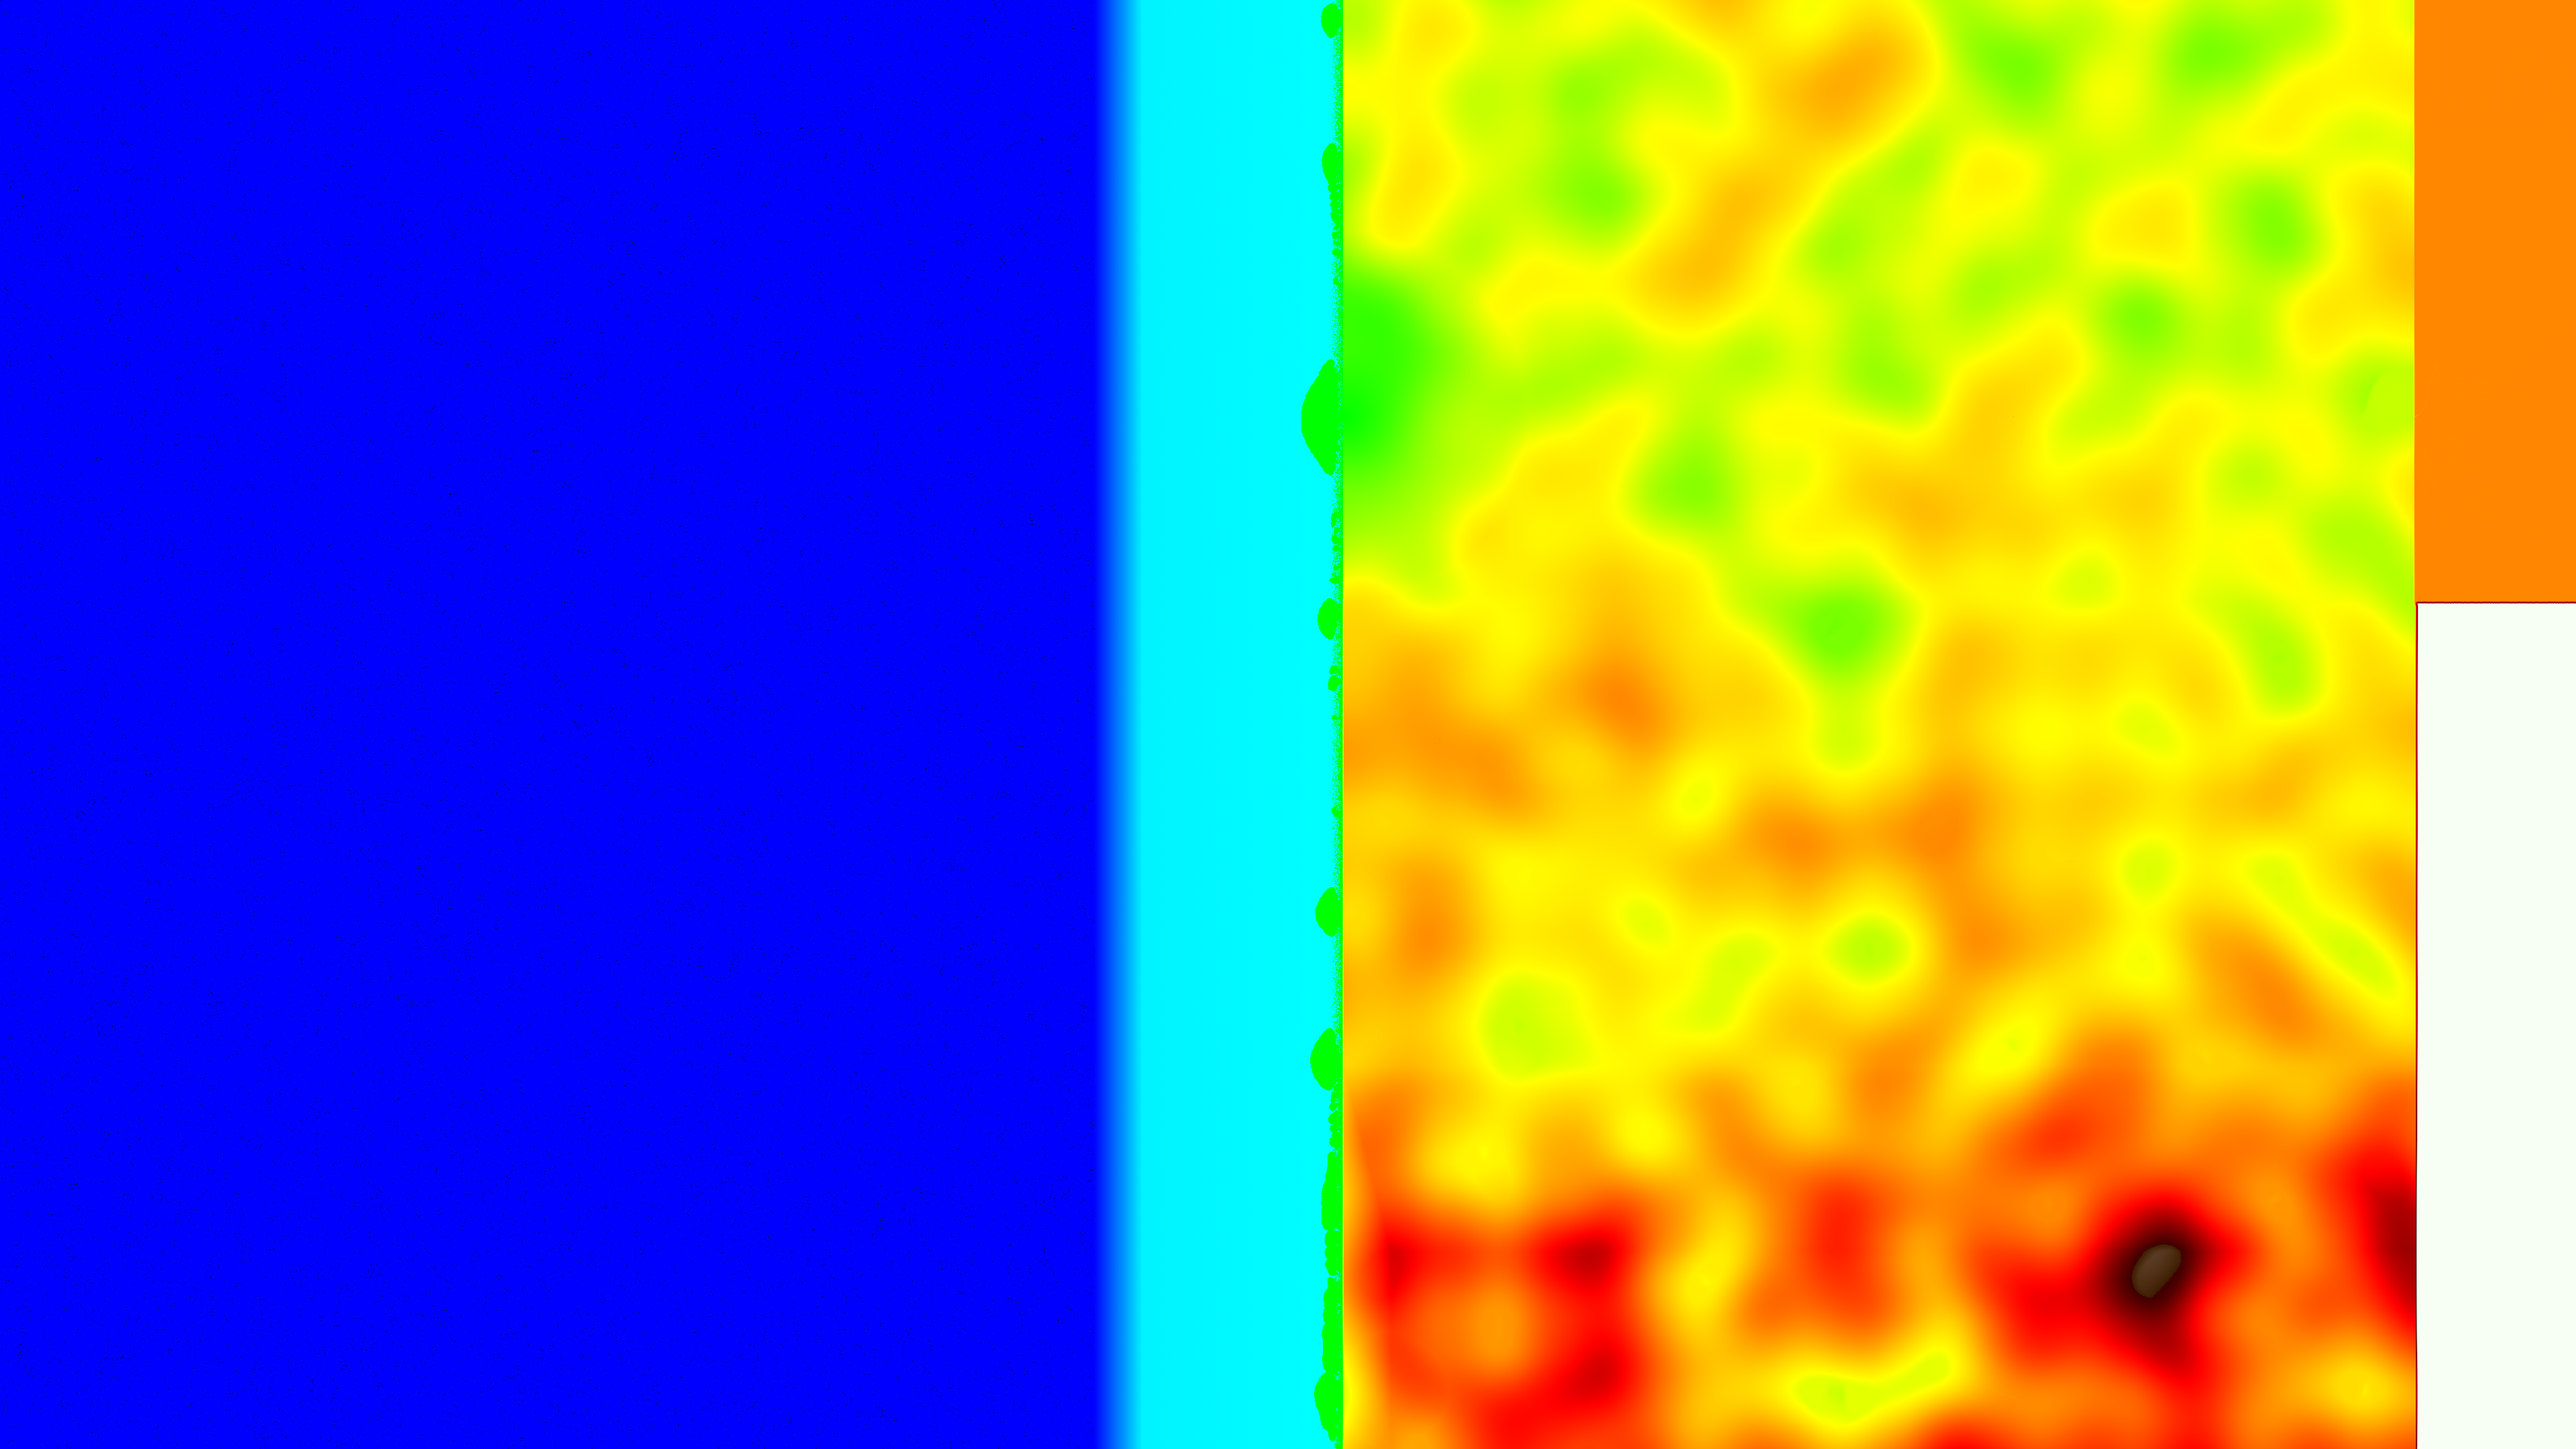
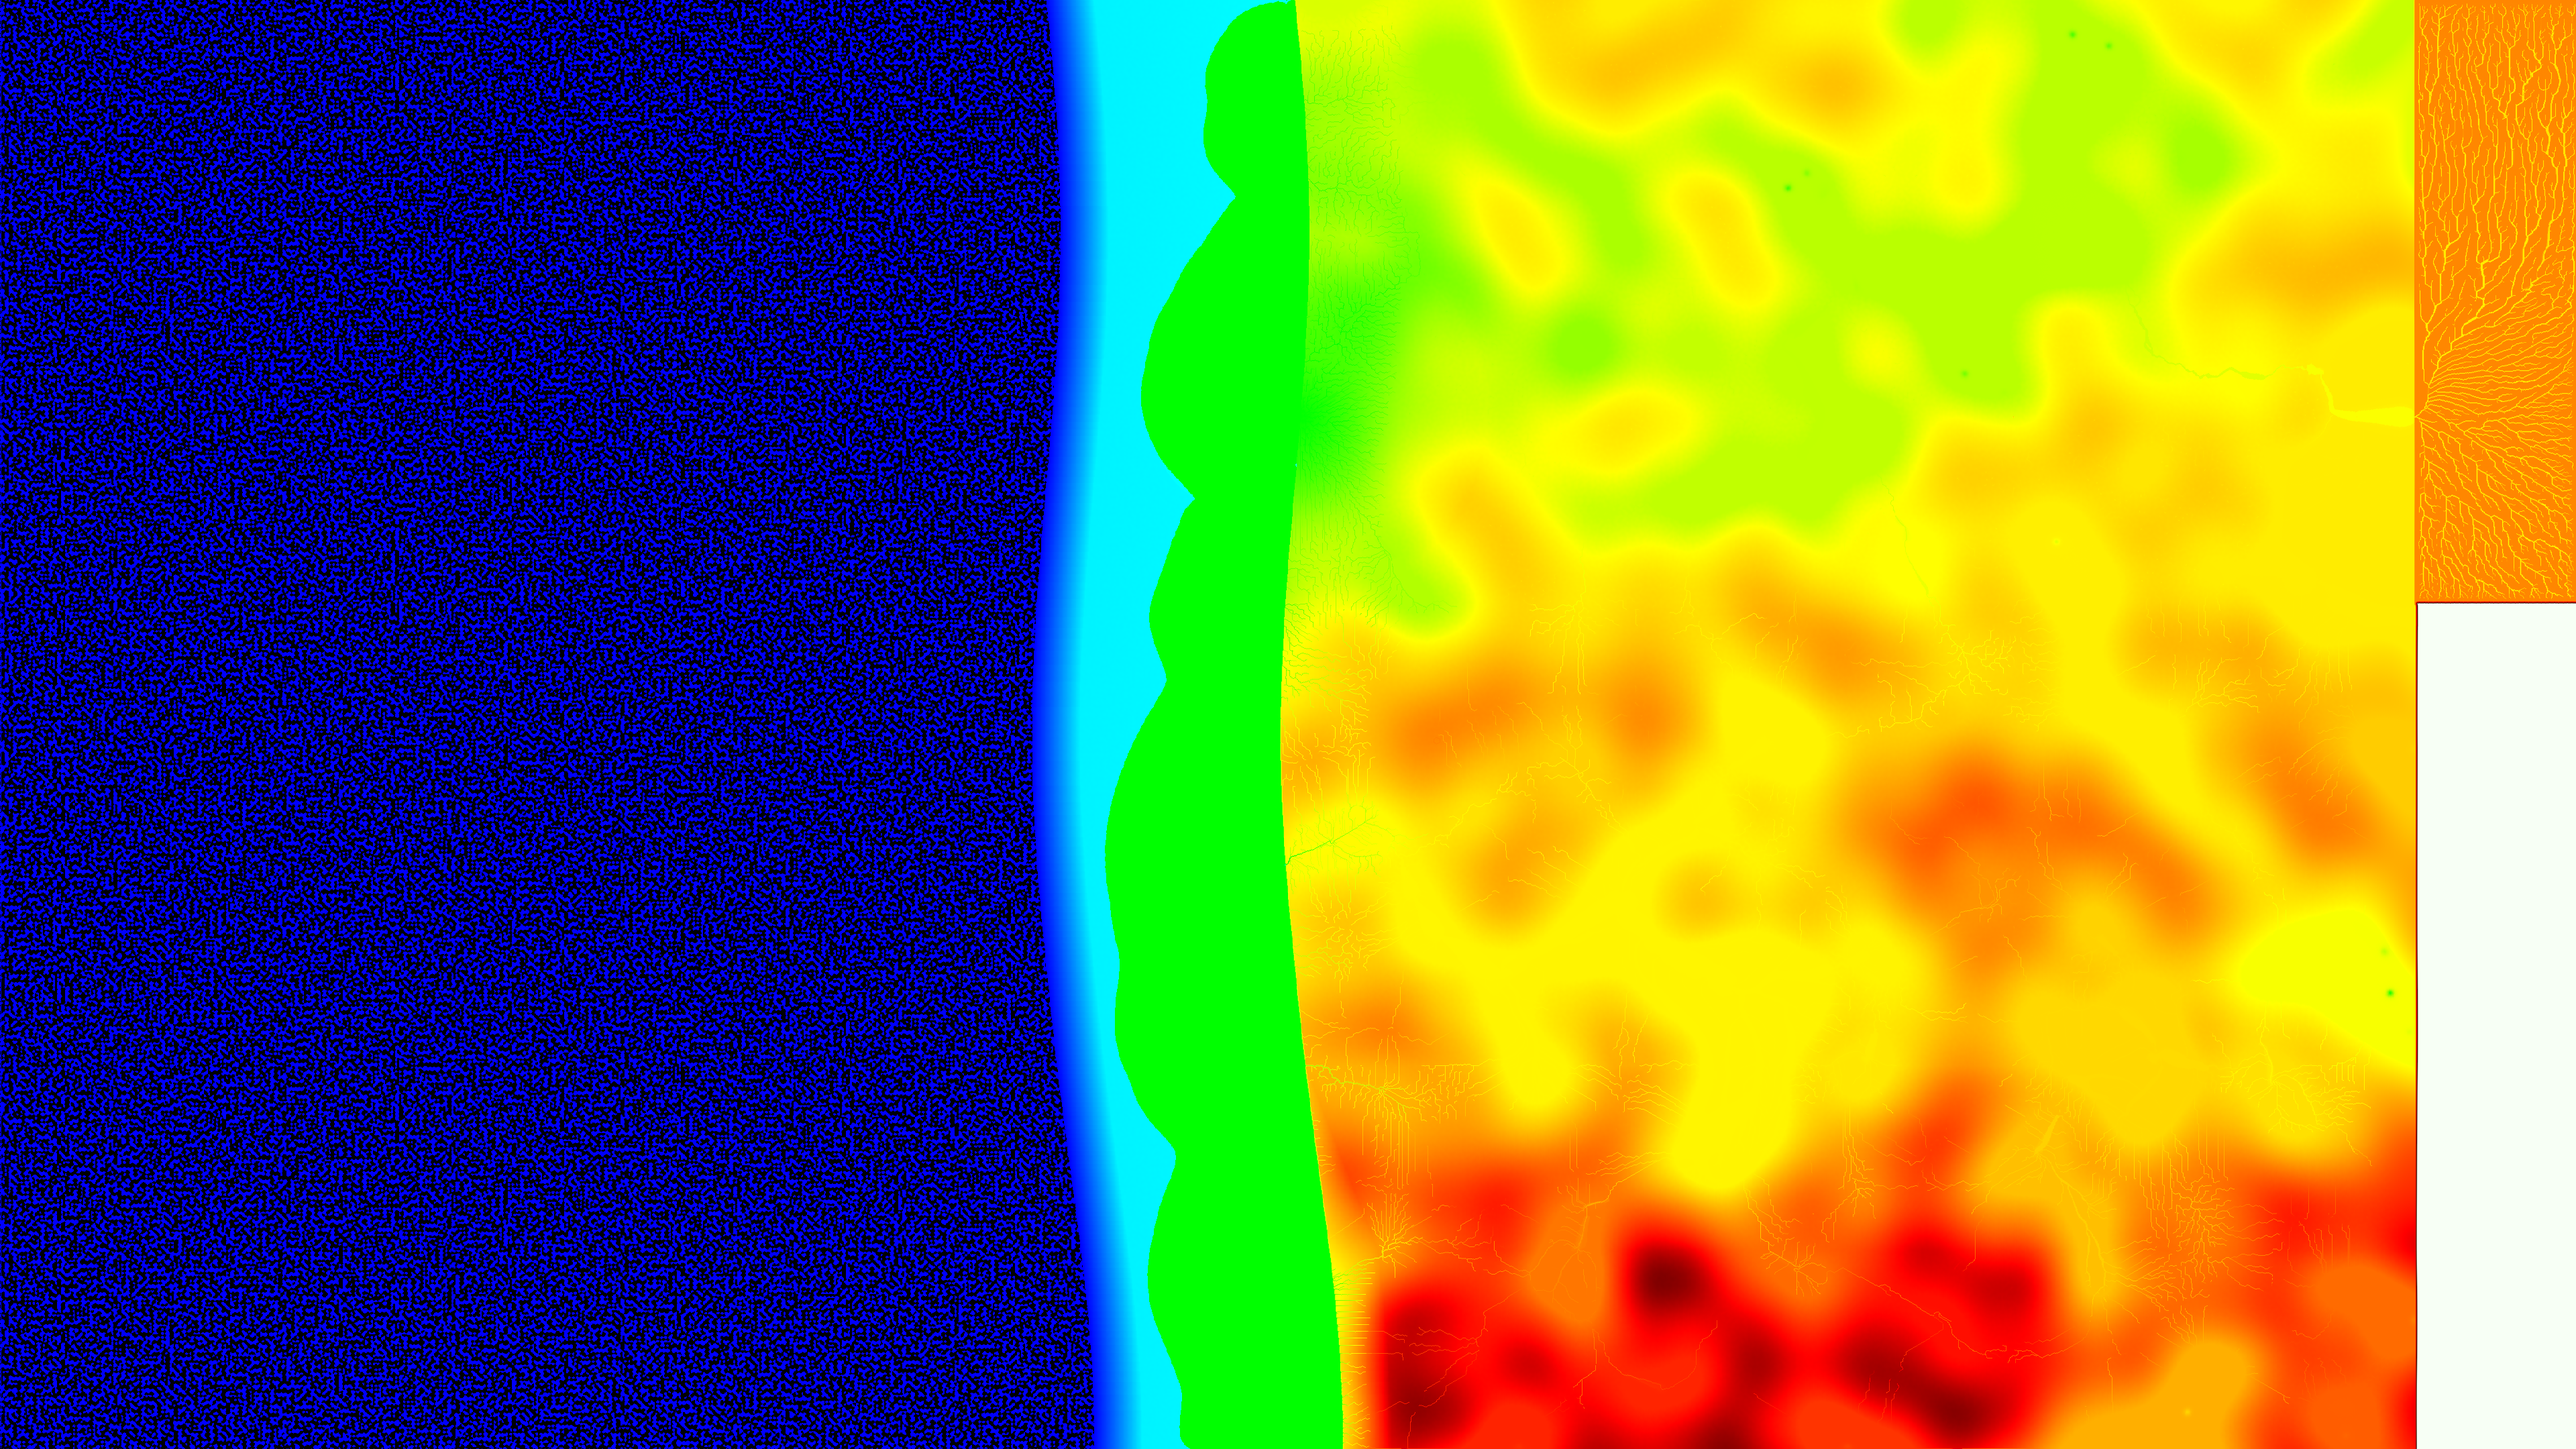
Use Perlin noise to add some wobble to the coastline.

diff --git a/src/main.rs b/src/main.rs
@@ -599,7 +599,11 @@ fn get_erruption_elevation(target_elevation: f32) -> f32 {
     erruption_elevation
 }
 
-fn get_perlin_noise(perlin: &Perlin, x: f64, y: f64, period: f64) -> f32 {
+fn get_perlin_noise(perlin: &Perlin, input: f64, period: f64) -> f32 {
+    (perlin.get([input / period]) as f32 + 1.0) / 2.0
+}
+
+fn get_perlin_noise_for_hex(perlin: &Perlin, x: f64, y: f64, period: f64) -> f32 {
     (perlin.get([x * HEX_FACTOR as f64 / period, y / period]) as f32 + 1.0) / 2.0
 }
 
@@ -614,6 +618,7 @@ fn main() {
     let mut rng = rand::thread_rng();
     let perlin = Perlin::new(rng.gen_range(0..u32::MAX));
     let transition_period = ONE_DEGREE_LATITUDE_MILES as f64 * 4.0;
+    let sea_deviation_for_river_y = (get_perlin_noise(&perlin, RIVER_Y as f64, HEIGHT_PIXELS as f64 / 1.5) * COAST_WIDTH as f32) as usize;
 
     // Time hex map creation
     let hex_start = Instant::now();
@@ -621,26 +626,28 @@ fn main() {
     for y in 0..HEIGHT_PIXELS {
         hex_map.push(Vec::new());
         let distance_from_river_y = (y as i16 - RIVER_Y as i16).abs();
+        let sea_deviation = (get_perlin_noise(&perlin, y as f64, HEIGHT_PIXELS as f64 / 1.5) * COAST_WIDTH as f32) as usize;
 
         for x in 0..WIDTH_HEXAGONS {
             let mut elevation = 0.0;
             let mut distance_from_coast = 0;
+            let adjusted_y = y as f64 + (x % 2) as f64 * 0.5;
 
-            if x < ABYSSAL_PLAINS_WIDTH {
+            if x + sea_deviation < ABYSSAL_PLAINS_WIDTH {
                 elevation = SEA_LEVEL - ABYSSAL_PLAINS_DEPTH;
-            } else if x >= ABYSSAL_PLAINS_WIDTH && x < ABYSSAL_PLAINS_WIDTH + CONTINENTAL_SLOPE_WIDTH {
-                elevation = CONTINENTAL_SLOPE_INCREMENT * (x - ABYSSAL_PLAINS_WIDTH) as f32 - ABYSSAL_PLAINS_DEPTH;
-            } else if x < TOTAL_SEA_WIDTH {
-                elevation = (x - ABYSSAL_PLAINS_WIDTH - CONTINENTAL_SLOPE_WIDTH) as f32 * CONTINENTAL_SHELF_INCREMENT - CONTINENTAL_SHELF_DEPTH;
+            } else if x + sea_deviation >= ABYSSAL_PLAINS_WIDTH && x + sea_deviation < ABYSSAL_PLAINS_WIDTH + CONTINENTAL_SLOPE_WIDTH {
+                elevation = CONTINENTAL_SLOPE_INCREMENT * (x + sea_deviation - ABYSSAL_PLAINS_WIDTH) as f32 - ABYSSAL_PLAINS_DEPTH;
+            } else if x + sea_deviation < TOTAL_SEA_WIDTH {
+                elevation = (x + sea_deviation - ABYSSAL_PLAINS_WIDTH - CONTINENTAL_SLOPE_WIDTH) as f32 * CONTINENTAL_SHELF_INCREMENT - CONTINENTAL_SHELF_DEPTH;
             } else {
-                distance_from_coast = x - TOTAL_SEA_WIDTH;
-                let map_third_noise = get_perlin_noise(&perlin, x as f64, y as f64, HEIGHT_PIXELS as f64 / 3.0);
-                let transition_period_noise = get_perlin_noise(&perlin, x as f64, y as f64, transition_period);
-                let coastal_noise = get_perlin_noise(&perlin, x as f64, y as f64, COAST_WIDTH as f64);
+                distance_from_coast = x + sea_deviation - TOTAL_SEA_WIDTH;
+                let map_third_noise = get_perlin_noise_for_hex(&perlin, x as f64, adjusted_y, HEIGHT_PIXELS as f64 / 3.0);
+                let transition_period_noise = get_perlin_noise_for_hex(&perlin, x as f64, adjusted_y, transition_period);
+                let coastal_noise = get_perlin_noise_for_hex(&perlin, x as f64, adjusted_y, COAST_WIDTH as f64);
                 let perlin_noise = (transition_period_noise + coastal_noise + map_third_noise) / 3.0;
 
                 if y < NORTH_DESERT_HEIGHT {
-                    let factor = (hex_distance_pythagorean(x as i32, y as i32, TOTAL_SEA_WIDTH as i32, RIVER_Y as i32) as f32 / (transition_period as f32)).min(1.0);
+                    let factor = (hex_distance_pythagorean(x as i32 + sea_deviation_for_river_y as i32, y as i32, TOTAL_SEA_WIDTH as i32, RIVER_Y as i32) as f32 / (transition_period as f32)).min(1.0);
                     elevation = perlin_noise * NORTH_DESERT_MAX_ELEVATION * factor;
                 } else if y < NORTH_DESERT_HEIGHT + CENTRAL_HIGHLAND_HEIGHT {
                     let coast_y = COAST_WIDTH as f32 * HEX_SIZE;
@@ -690,12 +697,12 @@ fn main() {
                 elevation += RING_VALLEY_ELEVATION_BONUS;
             }
             // TODO: seaside cliff just north of 34 degrees latitude. Make it 512 feet at the highest point, like the Athenian acropolis.
-            if x <= TOTAL_SEA_WIDTH + NORTH_DESERT_WIDTH - NE_BASIN_FRINGE as usize {
-                elevation += rng.gen_range(0.0..RANDOM_ELEVATION_FACTOR);
+            if x + sea_deviation <= TOTAL_SEA_WIDTH + NORTH_DESERT_WIDTH - NE_BASIN_FRINGE as usize {
+                elevation += (get_perlin_noise_for_hex(&perlin, x as f64, adjusted_y, 6.0) - 0.5) * RANDOM_ELEVATION_FACTOR * 3.0;
             }
 
             let mut rain_class = 0;
-            if x > TOTAL_SEA_WIDTH && distance_from_coast < COAST_WIDTH {
+            if x + sea_deviation > TOTAL_SEA_WIDTH && distance_from_coast < COAST_WIDTH {
                 rain_class += 1;
             }
             if y > NORTH_DESERT_HEIGHT {

diff --git a/src/constants.rs b/src/constants.rs
@@ -77,7 +77,6 @@ pub const NE_BASIN_ELEVATION: f32 = 636.0;
 pub const CENTRAL_HIGHLAND_MAX_ELEVATION: f32 = 10_131.0;
 pub const CENTRAL_HIGHLAND_INCREMENT: f32 = (CENTRAL_HIGHLAND_MAX_ELEVATION - RANDOM_ELEVATION_FACTOR) / MAIN_RIVER_WIDTH as f32;
 // With Perlin noise, actual elevation will likely be lower than this.
-// E.g. 16522.40, 15535.90
 pub const SE_MOUNTAINS_MAX_ELEVATION: f32 = 18_510.0;
 pub const SE_MOUNTAINS_INCREMENT: f32 = (SE_MOUNTAINS_MAX_ELEVATION - RANDOM_ELEVATION_FACTOR) / MAIN_RIVER_WIDTH as f32;
 pub const SW_RANGE_MAX_ELEVATION: f32 = 16_854.0;
@@ -104,7 +103,7 @@ pub const TARGET_RIVER_DEPTH: f32 = 32.0; // Feet
 pub const FLOW_FACTOR: f32 = 0.90;
 // Might take 7k-10k rounds to carve out the river valley I want.
 pub const DEFAULT_ROUNDS: u32 = 1_000;
-pub const WATER_THRESHOLD: f32 = 1.0; // Feet
+pub const WATER_THRESHOLD: f32 = 0.5; // Feet
 
 
 pub const MAX_SLOPE: f32 = 1.00;
